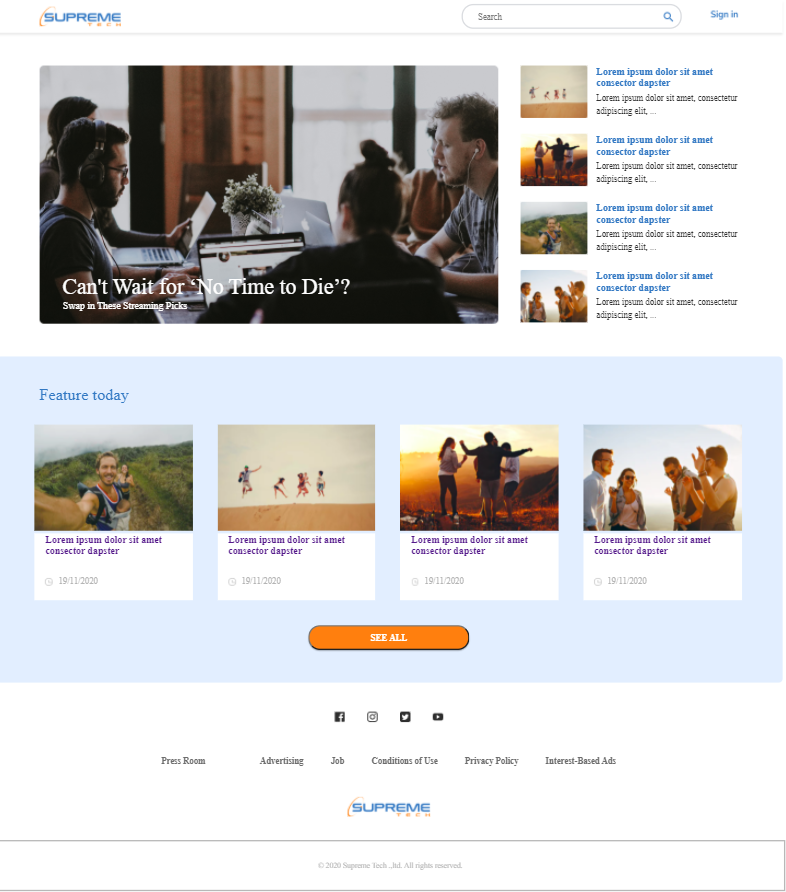
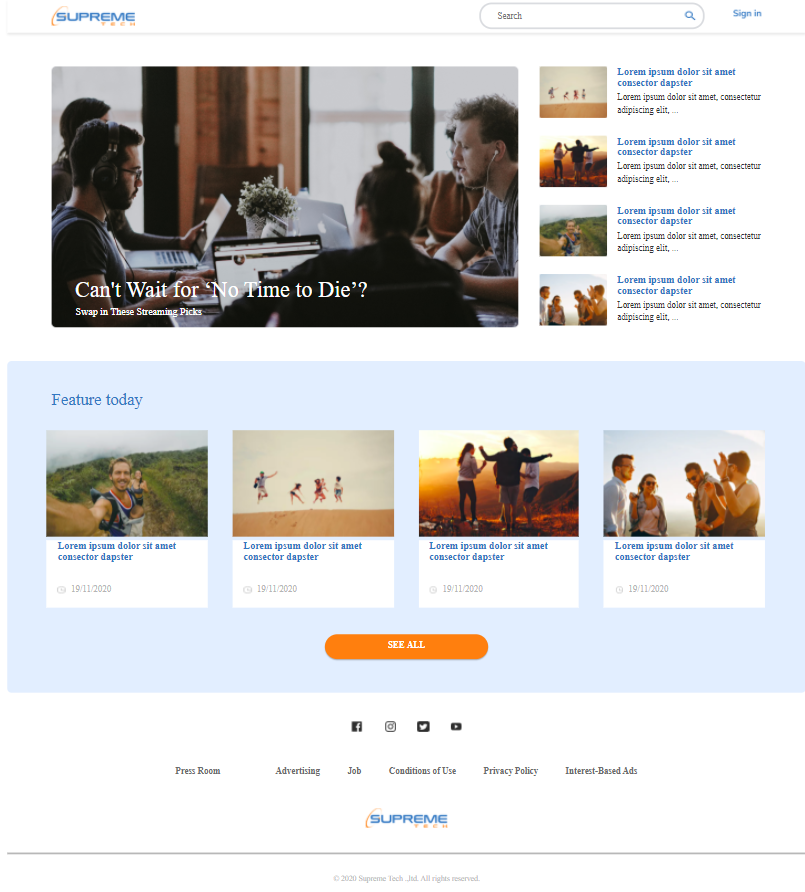
change border

diff --git a/Design/Design.css b/Design/Design.css
@@ -16,17 +16,16 @@ header{
     box-shadow: 0px 4px 4px rgba(0, 0, 0, 0.08);
 }
 
-.header-logo{
+header .header-logo{
     width: 148.11px;
     height: 35px;
     margin-left: 80px;
     top: 11px;
     bottom: 14px;
     border-radius: 0px;
-
 }
 
-.header-search {
+header .header-search {
     display: flex;
     flex-direction: row;
     justify-content: space-between;
@@ -38,7 +37,7 @@ header{
     border-radius: 30px;
     border: 1px solid #DADCE0;
 }
-.text-search{
+.header-search .text-search{
     margin-top: 9px;
     border: none;
     outline: none;
@@ -54,7 +53,7 @@ header{
     color: #BBBBBB;
 }
 
-.btn-search{
+.header-search .btn-search{
     background-color: transparent;
     position: absolute;
     border: none;
@@ -65,7 +64,7 @@ header{
     margin-top: 8px;
 }
 
-.header-sign-in{
+header .header-sign-in{
     width: 53px;
     height: 24px;
     margin-right: 79px;
@@ -87,7 +86,7 @@ main{
     justify-content: space-between;
 }
 
-.section-content{
+main .section-content{
     display: flex;
     flex-direction: row;
     justify-content: space-between;
@@ -219,7 +218,7 @@ main{
     color: #323232;
 }
 
-.section-feature{
+main .section-feature{
     display: flex;
     flex-direction: column;
     justify-content: space-between;
@@ -276,7 +275,7 @@ main{
     background: #FFFFFF;
 }
 
-.caption-film .link {
+.caption-film .link{
     text-decoration: none;
     height: 44px;
     width: 250px;
@@ -291,8 +290,9 @@ main{
     font-style: normal;
     font-weight: bold;
     font-size: 18px;
+    color: #3278C3;
 }
-.caption-film .date-time {
+.caption-film .date-time{
     display: flex;
     height: 77px;
     justify-content: space-between;
@@ -302,6 +302,7 @@ main{
     height: 27px;
     width: 250px;
     margin-top: 31px;
+    margin-bottom: 26px;
     margin-left: 20px;
     margin-right: 20px;
     align-items: center;
@@ -309,10 +310,20 @@ main{
 
 .feature-bottom .btn-see-all{
     position: absolute;
+    display: flex;
+    align-items: center;
+    /*text-align: center;*/
     height: 46px;
     width: 296px;
     margin-left: 572px;
     margin-right: 572px;
+}
+
+.btn-see-all button {
+    text-align: center;
+    height: 46px;
+    width: 296px;
+    border: none;
     border-radius: 30px;
     font-family: Mulish;
     font-style: normal;
@@ -323,7 +334,6 @@ main{
     background: #FF7F0E;
     box-shadow: 0px 2px 2px rgba(0, 0, 0, 0.25);
     border-radius: 30px;
-
 }
 
 .date-tim-sub .time{
@@ -352,7 +362,7 @@ main{
     justify-content: space-between;
 }
 
-.footer{
+footer{
     margin-left: 0px;
     width: 1440px;
     height: 378px;
@@ -360,7 +370,7 @@ main{
     flex-direction: column;
 }
 
-.footer .footer-top{
+footer .footer-top{
     height: 288px;
     width: 100%;
     display: flex;
@@ -413,9 +423,9 @@ main{
     line-height: 96px;
     text-align: center;
 }
-.footer .footer-bottom{
+footer .footer-bottom{
     text-align: center;
-    border: 1px solid #B8B8B8; 
+    border-top: 1px solid #B8B8B8; 
     width: 1440px;
     height: 90px;
     font-family: Mulish;

diff --git a/Design/Design.html b/Design/Design.html
@@ -125,7 +125,7 @@
                 </div>
             </div>
             <div class="feature-bottom">
-                <button class="btn-see-all">SEE ALL</button>
+                <div class="btn-see-all"><button>SEE ALL</button></div>
             </div>
         </section>
     </main>
